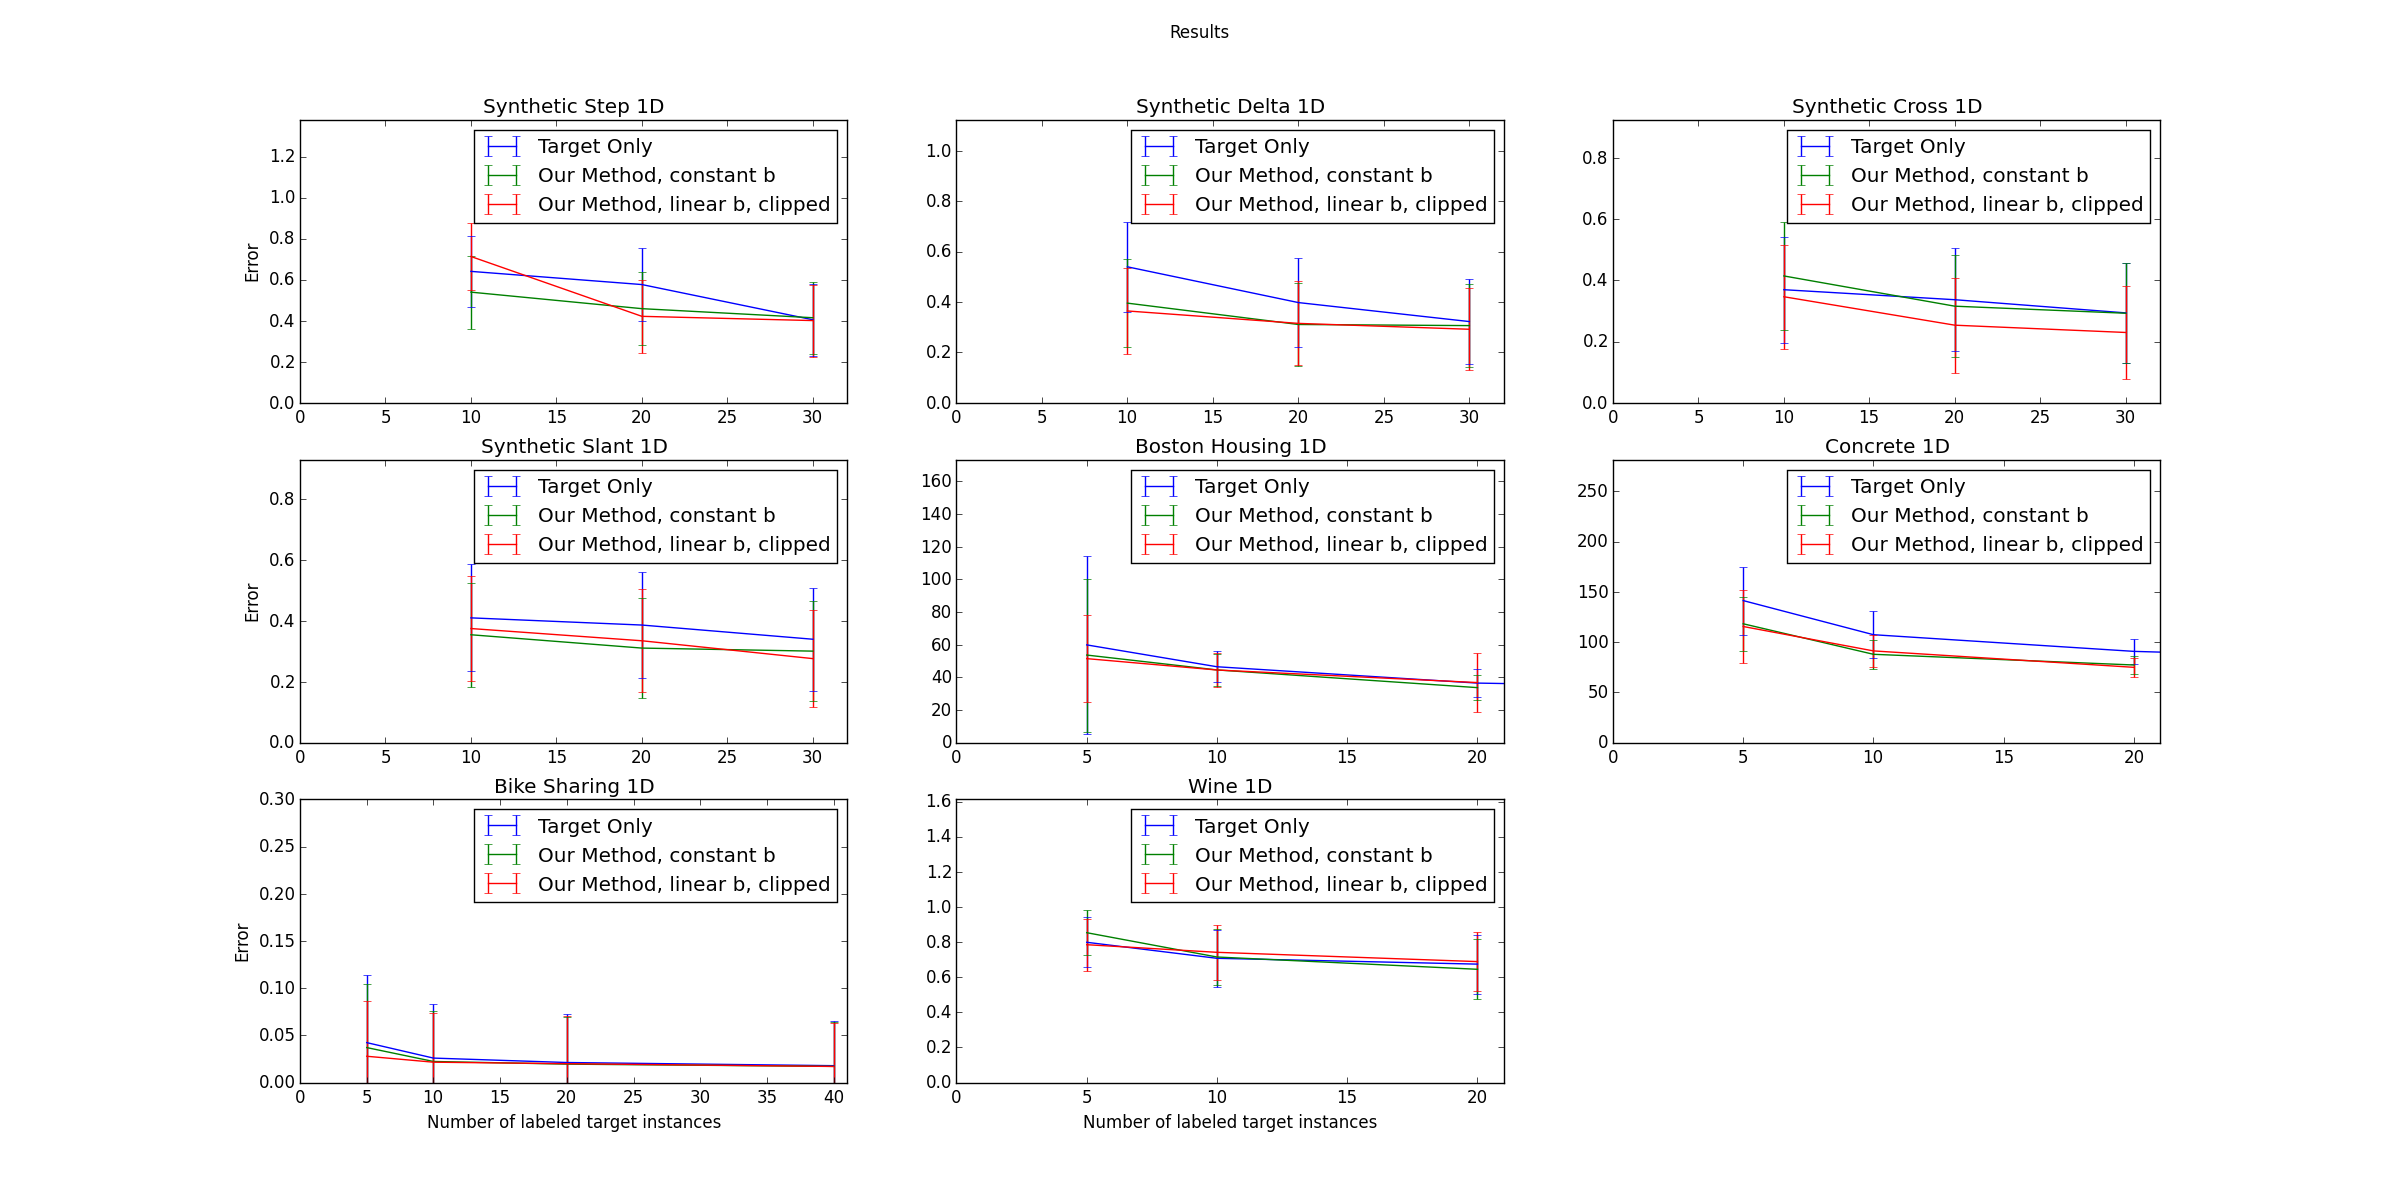
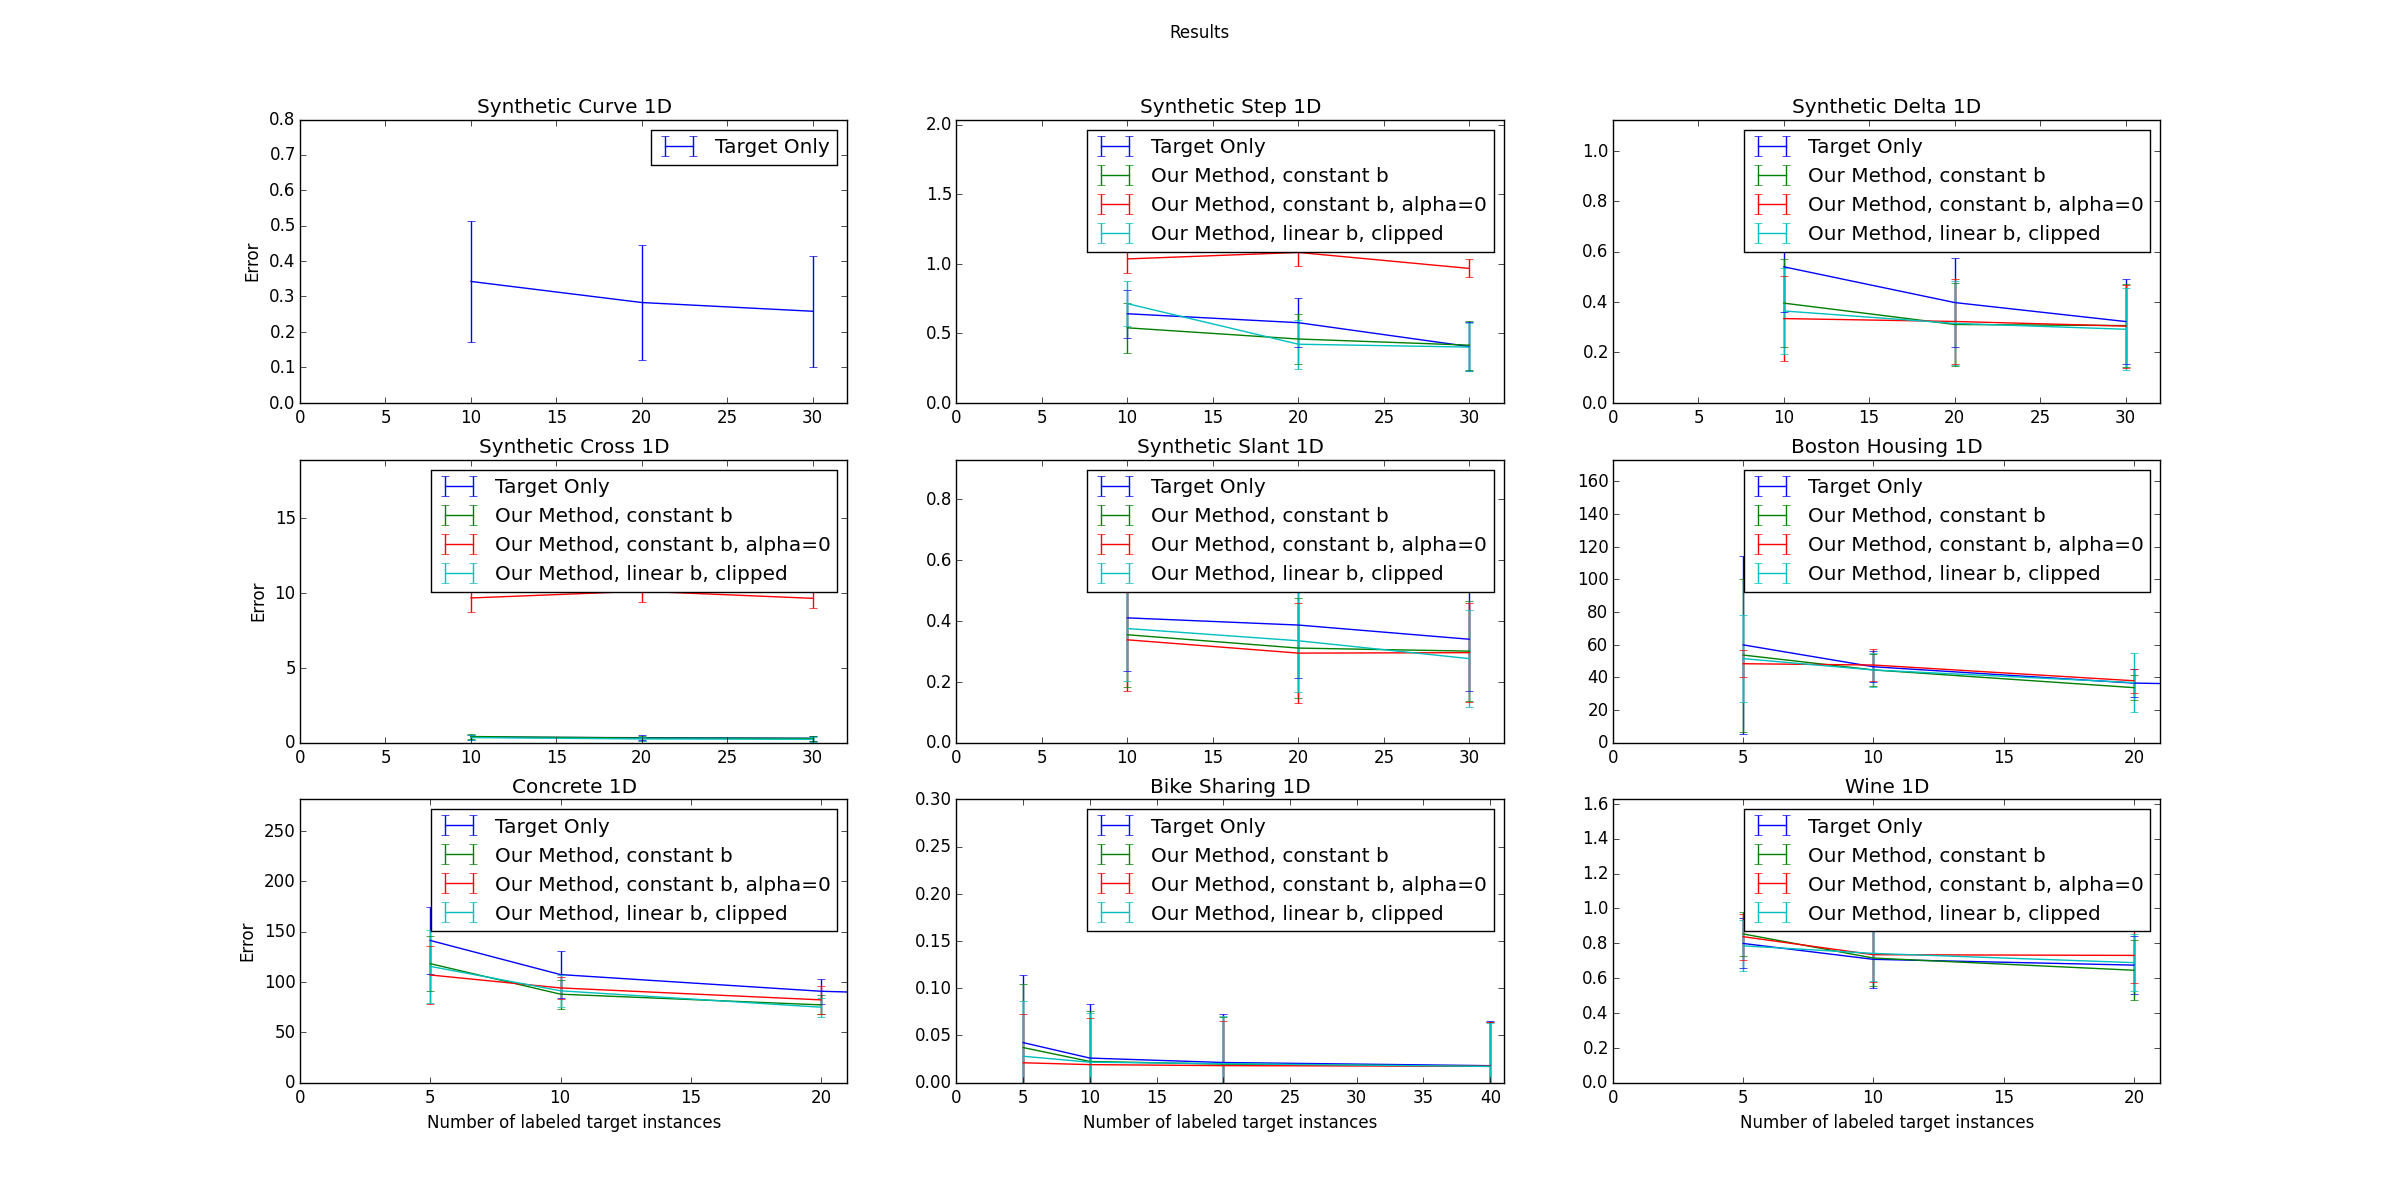
curve exps

diff --git a/base/transfer_project_configs.py b/base/transfer_project_configs.py
@@ -39,10 +39,11 @@ data_set_to_use = None
 #data_set_to_use = bc.DATA_SYNTHETIC_STEP_TRANSFER
 #data_set_to_use = bc.DATA_NG
 
-data_set_to_use = bc.DATA_BOSTON_HOUSING
+#data_set_to_use = bc.DATA_BOSTON_HOUSING
 #data_set_to_use = bc.DATA_CONCRETE
 #data_set_to_use = bc.DATA_WINE
 #data_set_to_use = bc.DATA_BIKE_SHARING
+data_set_to_use = bc.DATA_SYNTHETIC_CURVE
 
 
 #data_set_to_use = bc.DATA_SYNTHETIC_SLANT
@@ -56,16 +57,17 @@ run_batch_exps = True
 use_1d_data = True
 use_constraints = False
 
-use_fused_lasso = False
-no_C3 = True
+use_fused_lasso = True
+no_C3 = False
 use_radius = True
 include_scale = True
 constant_b = False
-linear_b = False
-use_validation = True
+linear_b = True
+use_validation = False
 clip_b = True
 
 synthetic_data_sets = [
+    bc.DATA_SYNTHETIC_CURVE,
     bc.DATA_SYNTHETIC_STEP_LINEAR_TRANSFER,
     bc.DATA_SYNTHETIC_DELTA_LINEAR,
     bc.DATA_SYNTHETIC_CROSS,
@@ -170,6 +172,9 @@ class ProjectConfigs(bc.ProjectConfigs):
             self.num_labels = np.asarray([10,20,30])
         elif data_set == bc.DATA_SYNTHETIC_SLANT:
             self.set_synthetic_regression('synthetic_slant')
+            self.num_labels = np.asarray([10,20,30])
+        elif data_set_to_use == bc.DATA_SYNTHETIC_CURVE:
+            self.set_synthetic_regression('synthetic_curve')
             self.num_labels = np.asarray([10,20,30])
         else:
             assert False
@@ -390,12 +395,12 @@ class MainConfigs(bc.MainConfigs):
         dt_local_transfer = methods.local_transfer_methods.LocalTransferDelta(method_configs)
         dt_sms = methods.local_transfer_methods.LocalTransferDeltaSMS(method_configs)
 
-        #self.learner = target_nw
+        self.learner = target_nw
         #self.learner = hyp_transfer
         #self.learner = local_transfer
         #self.learner = iwl_transfer
         #self.learner = sms_transfer
-        self.learner = dt_local_transfer
+        #self.learner = dt_local_transfer
         #self.learner = dt_sms
         self.learner.configs.use_validation = use_validation
 
@@ -436,36 +441,26 @@ class VisualizationConfigs(bc.VisualizationConfigs):
         self.files = []
         self.files.append(('TargetTransfer+NW.pkl', 'Target Only'))
 
-
-
-        #self.files['LocalTransferDelta_l2.pkl'] = 'Our Method, l2 loss'
-
-        #self.files['LocalTransferDeltaSMS.pkl'] = 'SMS no scale'
-        #self.files['LocalTransferDeltaSMS_scale.pkl'] = 'SMS with scale'
-
-
         #self.files['LocalTransferDelta_radius_cons_l2.pkl'] = 'Our Method, ball graph, l2 loss, constrained'
 
-        #self.files['LocalTransferDelta_C3=0_radius_l2_linear-b_use-val.pkl'] = 'Our Method, linear b, alpha=0, used validation'
-        #self.files['LocalTransferDelta_C3=0_radius_l2_linear-b.pkl'] = 'Our Method, linear b, alpha=0'
-
         #self.files.append(('LocalTransferDelta_radius_l2_constant-b.pkl','Our Method, constant b'))
-        #self.files['LocalTransferDelta_C3=0_radius_l2_constant-b.pkl'] = 'Our Method, constant b, alpha=0'
+        #self.files.append(('LocalTransferDelta_C3=0_radius_l2_constant-b.pkl','Our Method, constant b, alpha=0'))
 
         #self.files['LocalTransferDelta_C3=0_radius_l2_linear-b_clip-b.pkl'] = 'Our Method, linear b, alpha=0, clipped'
         #self.files.append(('LocalTransferDelta_radius_l2_linear-b_clip-b.pkl','Our Method, linear b, clipped'))
+        self.files.append(('LocalTransferDelta_radius_l2_linear-b_clip-b_use-val.pkl','Our Method, linear b, clipped, used validation'))
 
-        #self.files.append(('LocalTransferDelta_C3=0_radius_l2_lap-reg.pkl', 'Ours, ball, l2 loss, lap-reg'))
-        self.files.append(('LocalTransferDelta_C3=0_radius_l2_lap-reg.pkl', 'Ours, ball, alpha=0, lap-reg'))
-        self.files.append(('LocalTransferDelta_C3=0_radius_l2_use-val_lap-reg.pkl', 'Ours, ball, alpha=0, lap-reg, use validation'))
+        #self.files.append(('LocalTransferDelta_radius_l2_lap-reg.pkl', 'Ours, ball, lap-reg'))
+        #self.files.append(('LocalTransferDelta_C3=0_radius_l2_lap-reg.pkl', 'Ours, ball, alpha=0, lap-reg'))
+        #self.files.append(('LocalTransferDelta_C3=0_radius_l2_use-val_lap-reg.pkl', 'Ours, ball, alpha=0, lap-reg, use validation'))
 
-
-        '''
-        self.files.append(('LocalTransferDelta_C3=0_radius.pkl', 'Our Method, ball graph, alpha=0'))
-        self.files.append(('LocalTransferDelta_C3=0_radius_l2_use-val.pkl', 'Our Method, ball graph, alpha=0, used validation'))
-        self.files.append(('LocalTransferDelta_radius_l2.pkl','Our Method, ball graph, l2 loss'))
+        #self.files.append(('LocalTransferDelta_C3=0_radius_l2.pkl', 'Our Method, ball graph, alpha=0'))
+        #self.files.append(('LocalTransferDelta_C3=0_radius_l2_use-val.pkl', 'Our Method, ball graph, alpha=0, used validation'))
+        #self.files.append(('LocalTransferDelta_radius_l2.pkl','Our Method, ball graph, l2 loss'))
         self.files.append(('LocalTransferDelta_radius_l2_use-val.pkl', 'Our method, ball graph, l2 loss, used validation'))
-        '''
+
+        #self.files.append(('LocalTransferDelta_radius_l2_lap-reg.pkl','Our Method, ball graph, LapReg'))
+        #self.files.append(('LocalTransferDelta_radius_l2_use-val_lap-reg.pkl', 'Our method, ball graph, LapReg, used validation'))
 
         self.data_set_to_use = pc.data_set
         self.title = bc.data_name_dict.get(self.data_set_to_use, 'Unknown Data Set')

diff --git a/data_sets/create_synthetic_data.py b/data_sets/create_synthetic_data.py
@@ -18,6 +18,7 @@ synthetic_step_linear_transfer_file = 'synthetic_step_linear_transfer/raw_data.p
 synthetic_classification_file = 'synthetic_classification/raw_data.pkl'
 synthetic_classification_local_file = 'synthetic_classification_local/raw_data.pkl'
 synthetic_slant_file = 'synthetic_slant/raw_data.pkl'
+synthetic_curve_file = 'synthetic_curve/raw_data.pkl'
 
 def create_synthetic_classification(file_dir='',local=True):
     dim = 1
@@ -130,6 +131,13 @@ def create_synthetic_slant_transfer():
     source_fun = lambda x: 2.5*x + 1
     data = create_synthetic_regression_transfer(target_fun, source_fun)
     s = synthetic_slant_file
+    helper_functions.save_object(s, data)
+
+def create_synthetic_curve_transfer():
+    target_fun = lambda x: x**2
+    source_fun = lambda x: x**2.5 + 1
+    data = create_synthetic_regression_transfer(target_fun, source_fun)
+    s = synthetic_curve_file
     helper_functions.save_object(s, data)
 
 def create_synthetic_regression_transfer(target_fun, source_fun, n_target=100, n_source=100, sigma=.5):

diff --git a/data_sets/create_data_split.py b/data_sets/create_data_split.py
@@ -133,6 +133,7 @@ def run_main():
     #split_data(create_data_set.synthetic_delta_linear_file, regression_configs())
     #split_data(create_data_set.synthetic_cross_file, regression_configs())
 
-    split_data(create_data_set.synthetic_slant_file, regression_configs())
+    #split_data(create_data_set.synthetic_slant_file, regression_configs())
+    split_data(create_data_set.synthetic_curve_file, regression_configs())
 if __name__ == '__main__':
     run_main()

diff --git a/configs/base_configs.py b/configs/base_configs.py
@@ -12,6 +12,7 @@ DATA_WINE = 9
 DATA_SYNTHETIC_DELTA_LINEAR = 10
 DATA_SYNTHETIC_CROSS = 11
 DATA_SYNTHETIC_SLANT = 12
+DATA_SYNTHETIC_CURVE = 13
 
 data_name_dict = {
     DATA_NG: '20ng',
@@ -25,6 +26,7 @@ data_name_dict = {
     DATA_SYNTHETIC_DELTA_LINEAR: 'Synthetic Delta',
     DATA_SYNTHETIC_CROSS: 'Synthetic Cross',
     DATA_SYNTHETIC_SLANT: 'Synthetic Slant',
+    DATA_SYNTHETIC_CURVE: 'Synthetic Curve',
 }
 
 class Configs(object):

diff --git a/data_sets/create_data_set.py b/data_sets/create_data_set.py
@@ -484,6 +484,6 @@ if __name__ == "__main__":
     #create_synthetic_step_linear_transfer()
     #create_synthetic_delta_linear_transfer()
     #create_synthetic_cross_transfer()
-    create_synthetic_slant_transfer()
+    create_synthetic_curve_transfer()
     from data_sets import create_data_split
     create_data_split.run_main()
